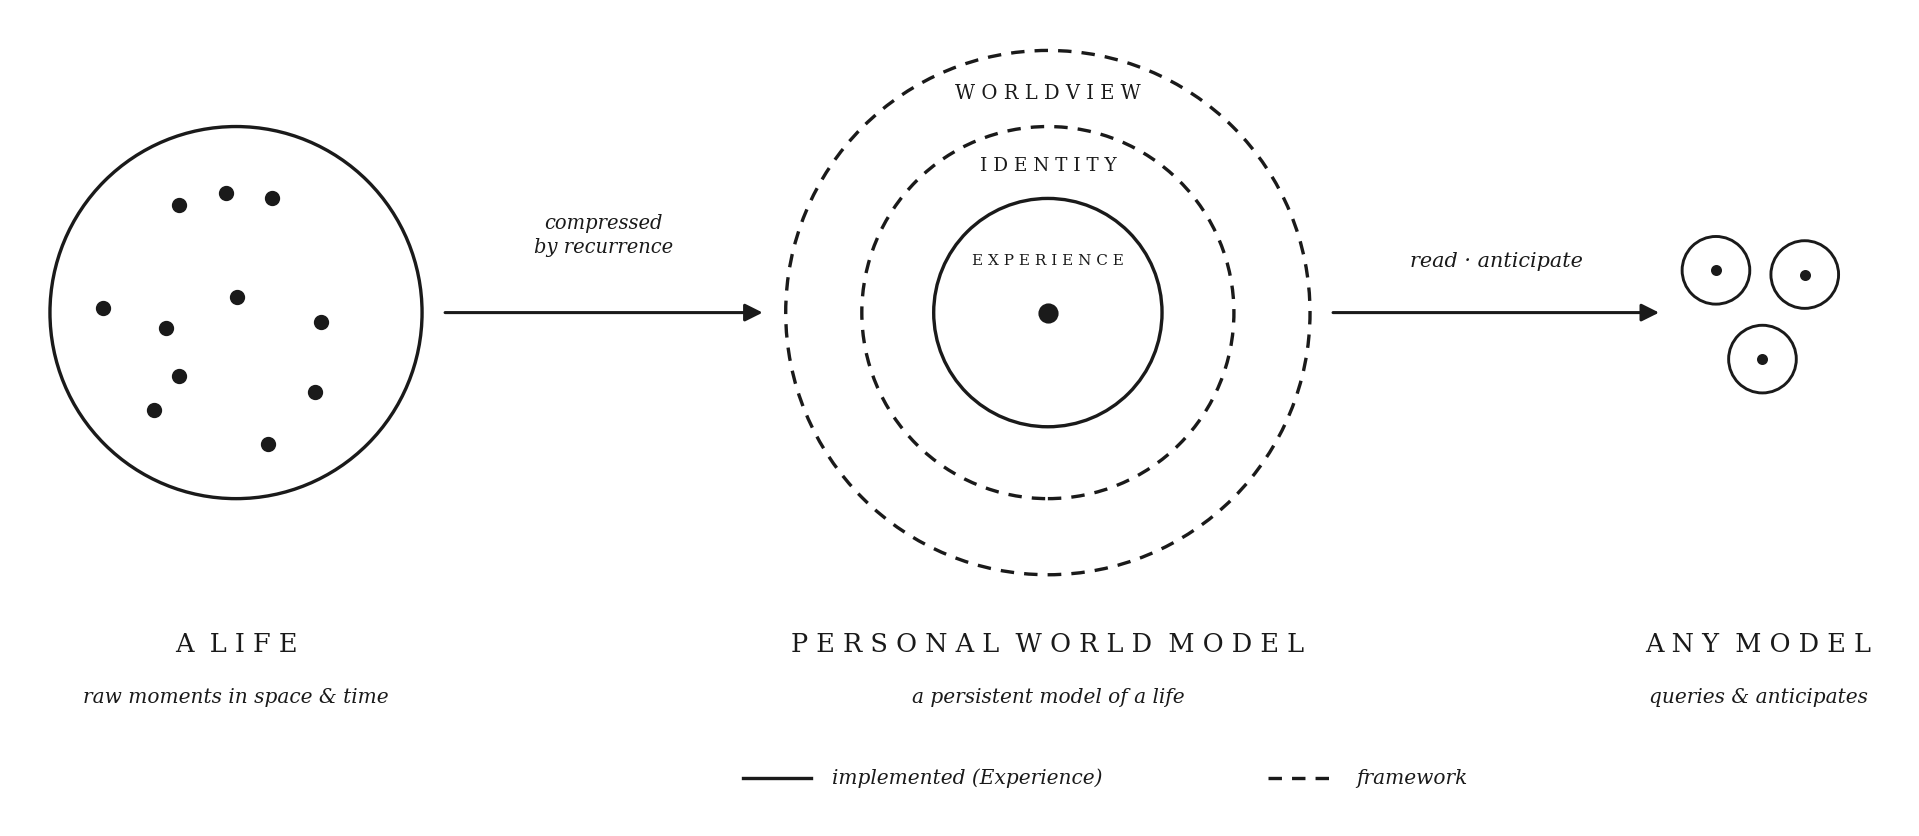
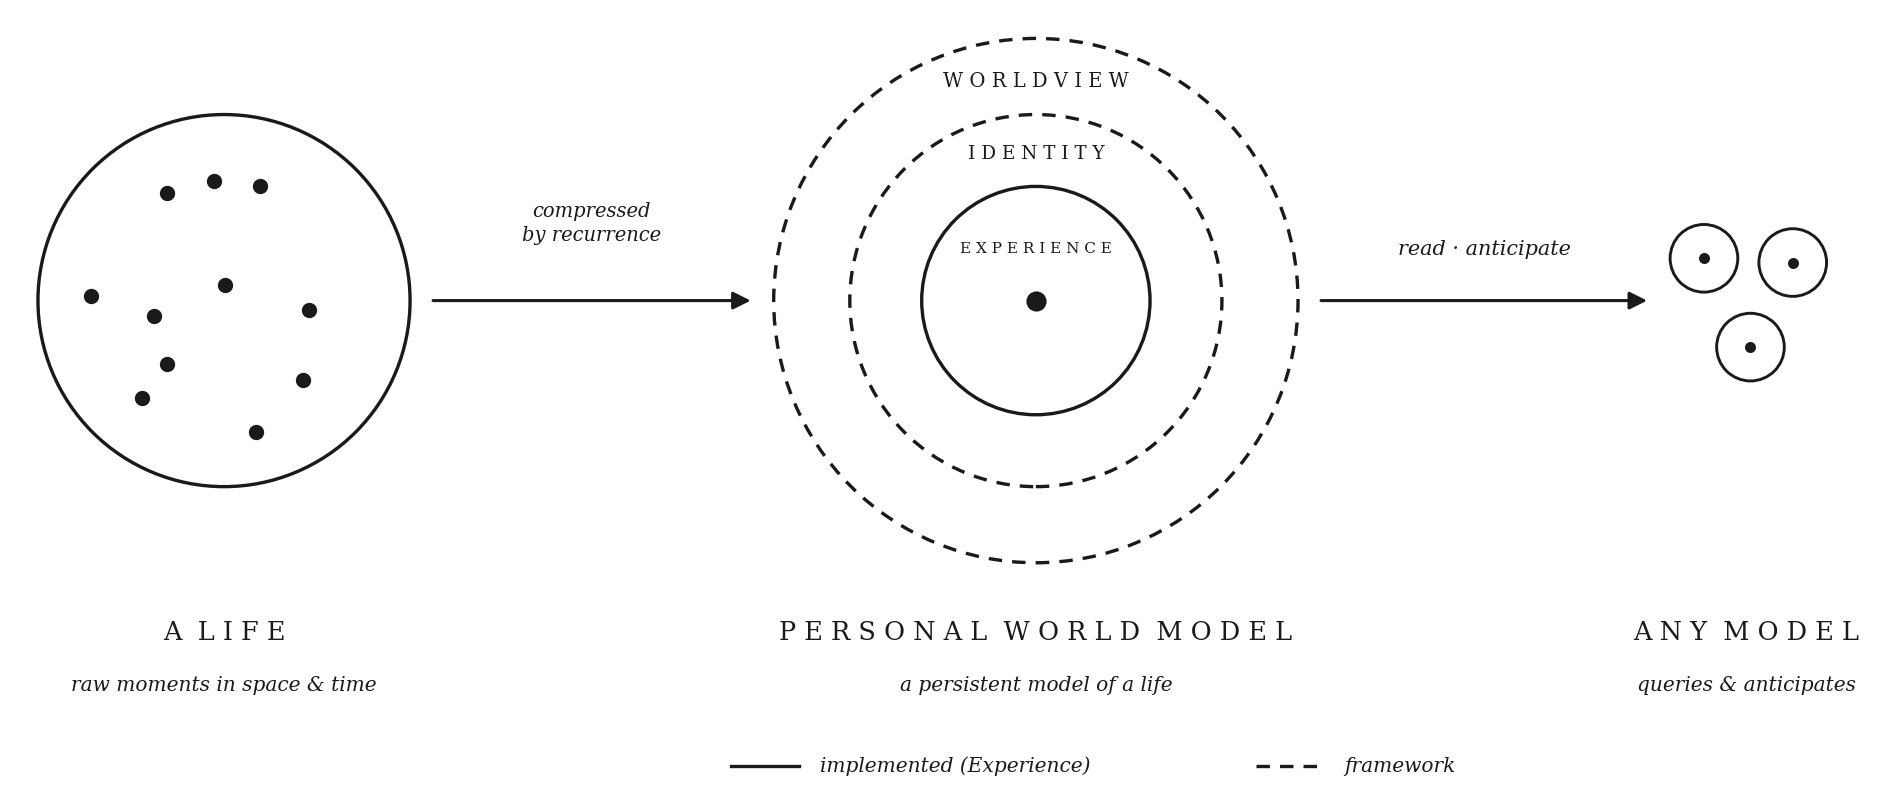
figures: symmetric ink bounds; notes fold earlier

diff --git a/docs/index.html b/docs/index.html
@@ -104,7 +104,7 @@
   .fade.vis { opacity: 1; }
   @media (prefers-reduced-motion: reduce) { .fade { opacity: 1; transition: none; } }
 
-  @media (max-width: 1080px) {
+  @media (max-width: 1300px) {
     aside.mn { float: none; width: auto; margin: 1.3em 0; padding: 0 0 0 1em;
       border-top: none; border-left: 1px solid #c9c9c9; color: #555; }
     aside.mn.key, aside.mn.num { color: #555; }
@@ -140,7 +140,7 @@
     <a href="https://github.com/personalworldmodels/personalworldmodels.github.io/tree/main/docs/supplement">Supplement</a>
   </div>
 
-  <figure class="wide hero"><img src="figures/framework.png" width="1919" height="836" style="height:auto" alt="The Personal World Model as a general, model-agnostic layer."></figure>
+  <figure class="wide hero"><img src="figures/framework.png" width="1895" height="812" style="height:auto" alt="The Personal World Model as a general, model-agnostic layer."></figure>
 
   <section class="tldr">
   <p class="tl-head"><b>tl;dr</b></p>
@@ -183,7 +183,7 @@
 <h2><span class="no">3</span>GOLGI</h2>
 <blockquote class="lede">GOLGI instantiates the PWM framework: it abstracts a personal photo archive into a navigable hierarchy at ingestion time and exposes it to agents through a standard tool surface (MCP).</blockquote>
 <p>GOLGI is currently implemented up to the Experience layer, over a single modality: personal photos. Following the PWM's principle of abstracting knowledge through accumulated repetition, GOLGI builds the hierarchy at ingestion time (Figure 2) and exposes it through the Model Context Protocol (MCP). The distinction is when the work happens: the abstractions are computed once, at ingestion, and persisted to disk. At query time an agent does not load the archive into its context window; it reads the already-built structure on demand through MCP tools (the PDF appendix), retrieving only what a question needs.</p>
-<figure class="wide"><img src="figures/pipeline.png" width="2133" height="772" loading="lazy" style="height:auto" alt=""><figcaption>Figure 2. GOLGI's ingestion pipeline. A photo enters as a Moment, Primitives are extracted per moment, recurring Primitives are promoted to Anchors with user confirmation, and the anchored stream is synthesized into Narratives along two streams. &#9312;&ndash;&#9315; mark the four capabilities evaluated in &sect;4.2.</figcaption></figure>
+<figure class="wide"><img src="figures/pipeline.png" width="2052" height="742" loading="lazy" style="height:auto" alt=""><figcaption>Figure 2. GOLGI's ingestion pipeline. A photo enters as a Moment, Primitives are extracted per moment, recurring Primitives are promoted to Anchors with user confirmation, and the anchored stream is synthesized into Narratives along two streams. &#9312;&ndash;&#9315; mark the four capabilities evaluated in &sect;4.2.</figcaption></figure>
 <p>We walk through the pipeline using one month of a user's phone photos, exported from a personal camera roll. The framework extends to other modalities (video, audio, journal entries), and the cost differs by modality. Location data is the cheapest to add: it already arrives structured, and it maps directly onto the structures GOLGI builds, since Trips and place-Anchors are defined by location to begin with. Communication data is the most valuable, because relationships largely live in it, but it raises third-party consent questions beyond those the Ethics Statement addresses for photos.</p>
 <aside class="mn">LanceDB is an open-source columnar vector database. <code>https://lancedb.com/</code></aside><aside class="mn">K&ugrave;zuDB is an embedded property graph database (Feng et al., 2023). <code>https://kuzudb.com/</code></aside><p>Each photo enters the system as a <b>Moment</b>. A vector database (LanceDB) stores its visual information and a short text description; a graph database (K&ugrave;zuDB) stores the identified entities: faces, objects, activities, spaces, text. These features are <b>Primitives</b>, and at this stage everything is anonymous: a face is a face, a room is a room.</p>
 <aside class="mn">Recurrence gates: a place becomes an Anchor after 3 moments across 2 distinct days; a face after 2 appearances across 2 days. The user confirms and names.</aside><p>As Moments accumulate, patterns surface across their Primitives: the same faces keep appearing, the same places keep recurring. When a pattern accumulates enough recurrence to clear a threshold and a validation step confirms it, GOLGI promotes it to a candidate <b>Anchor</b> and presents it to the user for confirmation and naming. Over the month, one face becomes the user themself, two cat faces become Perseida and Borealis, and the residential space is confirmed as home. Confirmed Anchors are stored as graph nodes that hold the identity of recurring entities across the archive. This confirmation loop is the first step toward a coherence mechanism in which the system itself proposes what to confirm and what to retire, continually re-evaluating its knowledge of the person.</p>
@@ -202,7 +202,7 @@
 <p>This subsection is a structural result: it establishes that the hierarchy can be built at archive scale and measures the compression it achieves. It makes no benefit claim; the benefit comparison is &sect;4.3.</p>
 <aside class="mn key">The data: 450 photos, four weeks of one author&rsquo;s life, unsampled and unlabeled; then 686 moments for the benchmark.</aside><p>The archive is one of the authors' own camera roll: 450 photos exported directly from an iPhone, covering February 3 to March 2, 2025. Four weeks of life as it was lived and photographed, unsampled and unlabeled.</p>
 <p>GOLGI ingests it into the full Experience hierarchy (Figure 3): 41 Plans identified (e.g., <i>Workday in the office</i>, <i>Pottery class</i>), with Trips aggregating multi-day arcs (<i>Wine country weekend</i>), Routines promoted from recurrence (<i>Morning walk and coffee</i>). Every node links downward to its constituent Moments and sideways to the Anchors it draws on.</p>
-<figure class="wide"><img src="figures/structure.png" width="1748" height="544" loading="lazy" style="height:auto" alt=""><figcaption>Figure 3. From log to structure. Moments arrive as an undifferentiated log; recurrence and proximity group them into Plans; recurring and related Plans aggregate into Collections: Trips, Routines, Projects.</figcaption></figure>
+<figure class="wide"><img src="figures/structure.png" width="1572" height="467" loading="lazy" style="height:auto" alt=""><figcaption>Figure 3. From log to structure. Moments arrive as an undifferentiated log; recurrence and proximity group them into Plans; recurring and related Plans aggregate into Collections: Trips, Routines, Projects.</figcaption></figure>
 <aside class="mn num">720K tokens of raw archive &rarr; hundreds of tokens traversed per question. The archive grows with life; the structure grows with its patterns.</aside><p>The measurable claim is the compression and how it scales. At the resolution needed for meaningful inspection the raw archive is around 720K tokens; the structure an agent traverses to answer a question is measured in hundreds. And the two grow differently. The archive grows linearly with life (a year already exceeds 8M tokens, and any context window with it) while the structure grows with the patterns in a life. Ingestion computes the understanding once and persists it as the substrate from which the next layer up, and eventually Identity and Worldview, is promoted.</p>
 <h3><span class="no">4.2</span>Downward: Bounded Capability Demands per Layer</h3>
 <blockquote class="lede">Implementing the Experience layer decomposes into four bounded capabilities, and the abstraction is efficient enough that all of them run on modest models: a lightweight cloud model as reference, and 4B on-device at parity with it, up to 82% end-to-end.</blockquote>
